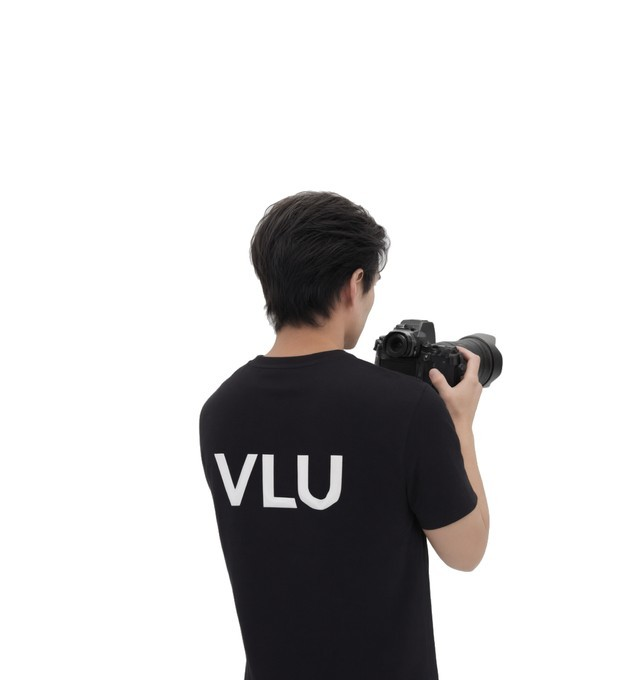
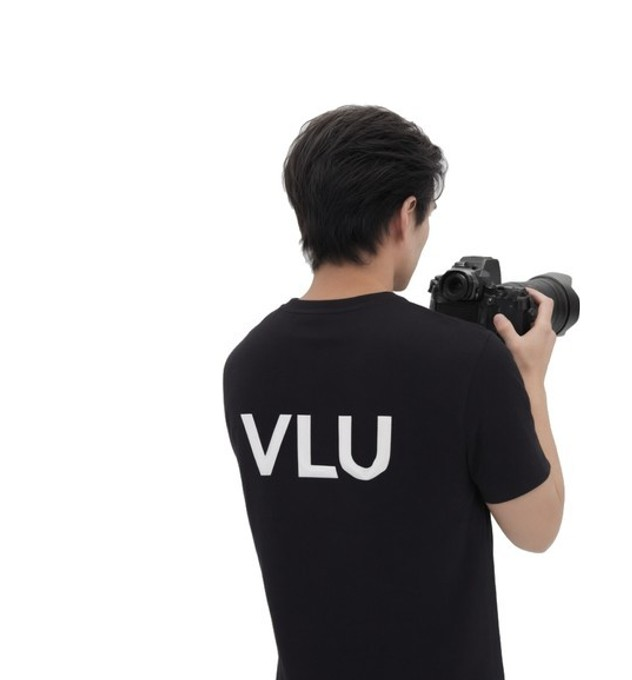
style: enlarge photographer to 85% and shift right with left whitespace

Changed region(s): [[0.3006, 0.1544, 0.932, 1.0]]

diff --git a/src/components/home-v8/V8ServiceCards.jsx b/src/components/home-v8/V8ServiceCards.jsx
@@ -37,7 +37,7 @@ export default function V8ServiceCards({ lang = 'zh' }) {
         <div className="v8-svc__col">
           <div className="v8-svc__card v8-svc__card--img v8-svc__card--photog">
             <span className="v8-svc__card-t">{t.c1a}</span>
-            <span className="v8-svc__imgbox"><img src="/images/photographer.jpg?v=4" alt="" loading="lazy" /></span>
+            <span className="v8-svc__imgbox"><img src="/images/photographer.jpg?v=5" alt="" loading="lazy" /></span>
           </div>
           <div className="v8-svc__card v8-svc__card--mini">
             <span className="v8-svc__card-t">{t.c1b}</span>
